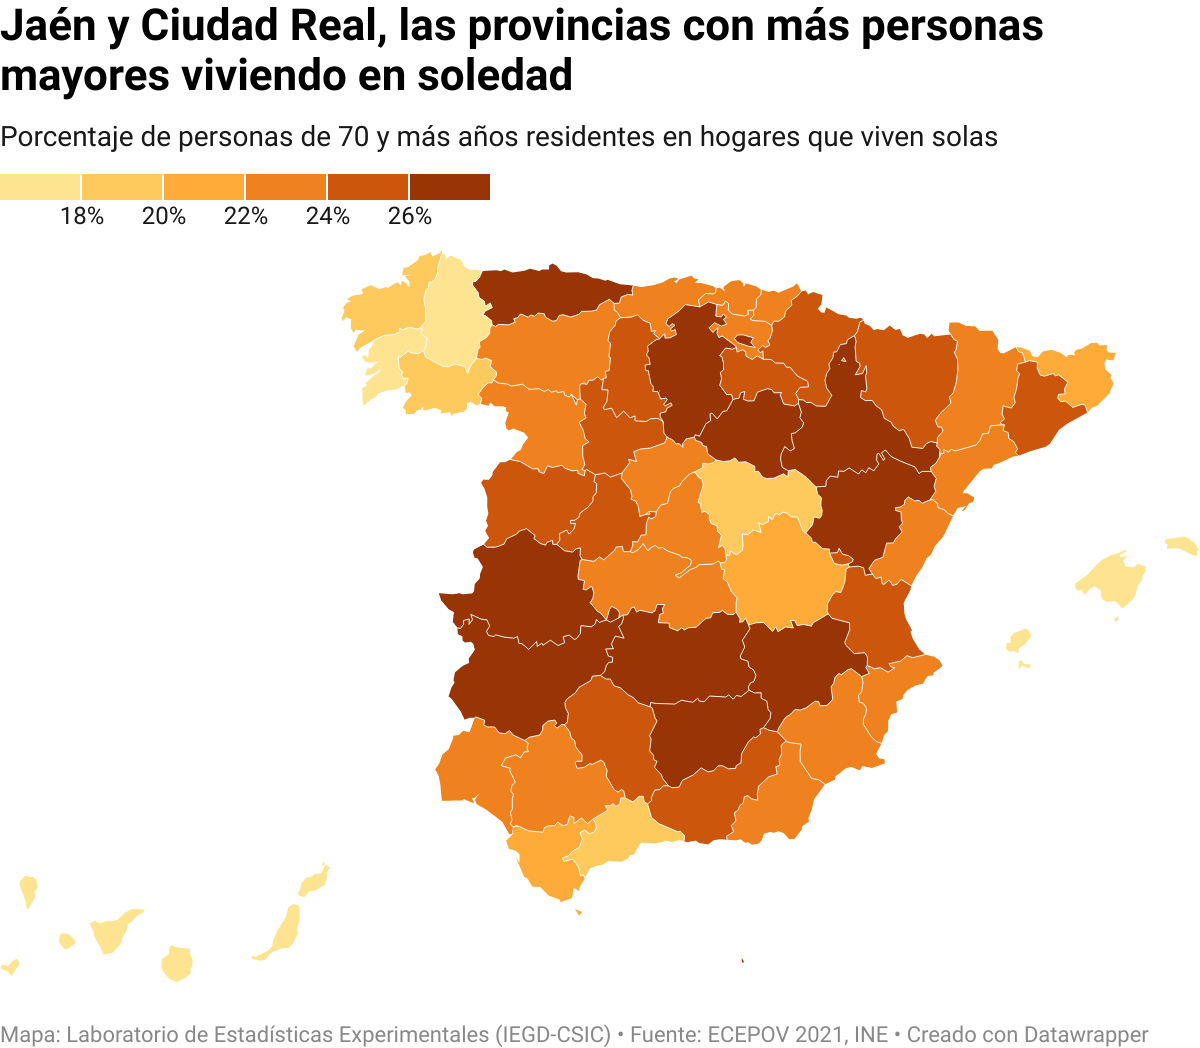
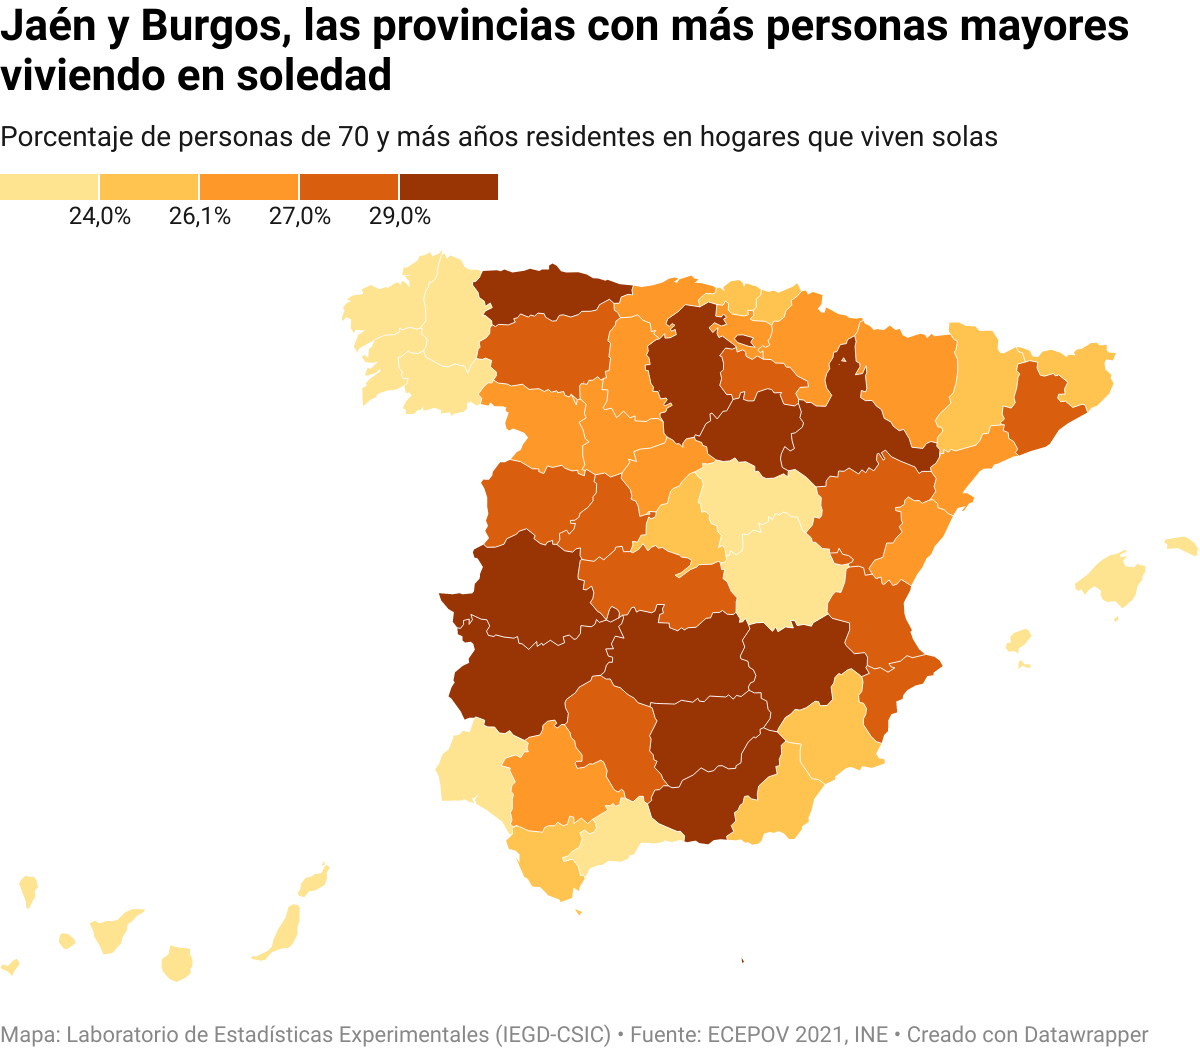
actualizado gráfico y título y fuente index

diff --git a/index.html b/index.html
@@ -3,7 +3,7 @@
 <head>
     <meta charset="UTF-8">
     <meta name="viewport" content="width=device-width, initial-scale=1.0, maximum-scale=1.0">
-    <title>Jaén y Ciudad Real, las provincias con más personas mayores viviendo en soledad</title> <!-- MODIFICAR -->
+    <title>Jaén y Burgos, las provincias con más personas mayores viviendo en soledad</title> <!-- MODIFICAR -->
     <link rel="stylesheet" href="https://cdnjs.cloudflare.com/ajax/libs/font-awesome/4.7.0/css/font-awesome.min.css">
     <link href="https://fonts.googleapis.com/css2?family=Montserrat:ital,wght@0,100;0,300;0,400;0,500;0,600;0,700;1,300;1,400;1,500;1,600;1,700&display=swap" rel="stylesheet">
     <link rel="stylesheet" href="./index.css">
@@ -13,7 +13,7 @@
         <section class="container container-chart active" id="chartBlock">
             <!-- Título y subtítulo -->
             <div class="bl-title">
-                <h1>Jaén y Ciudad Real, las provincias con más personas mayores viviendo en soledad</h1> <!-- MODIFICAR -->
+                <h1>Jaén y Burgos, las provincias con más personas mayores viviendo en soledad</h1> <!-- MODIFICAR -->
                 <h3>Porcentaje de personas de 70 y más años residentes en hogares que viven solas</h3> <!-- MODIFICAR -->
             </div>
     
@@ -52,7 +52,7 @@
         </section>
         <section class="container container-data">
             <h1 class="margin-bottom">Notas metodológicas</h1> <!-- MODIFICAR -->
-            <p>Los porcentajes de este gráfico se han calculado a partir de las tablas de Apoyo Social de la Encuesta de Características Esenciales de la Población y las Viviendas 2021 (ECEPOV 2021) publicadas por el Instituto Nacional de Estadística (INE) <a class="link" href="https://ine.es/dynt3/inebase/es/index.htm?padre=8993&capsel=8994" target="_blank">en el siguiente enlace</a>.</p>
+            <p>Los porcentajes de este gráfico se han calculado a partir de las tablas de <a class="link" href="https://ine.es/jaxi/Tabla.htm?tpx=56463&L=0" target="_blank">Hogares de una sola persona</a> y <a class="link" href="https://ine.es/jaxi/Tabla.htm?tpx=55430&L=0" target="_blank">Apoyo Social</a> de la Encuesta de Características Esenciales de la Población y las Viviendas 2021 (ECEPOV 2021) publicadas por el Instituto Nacional de Estadística (INE).</p>
             <p>El ámbito poblacional de la ECEPOV 2021 son las <b>personas que residen en España en viviendas familiares principales</b>, dejando fuera del ámbito de estudio a las personas residentes en establecimientos colectivos como residencias de mayores. Por ello, los porcentajes han de interpretarse como <b>personas residentes en hogares que viven solas</b> y no como proporción de personas que viven solas.</p>
             <br>
 			<h1 class="margin-bottom">Repositorio de código</h1> <!-- MODIFICAR -->
